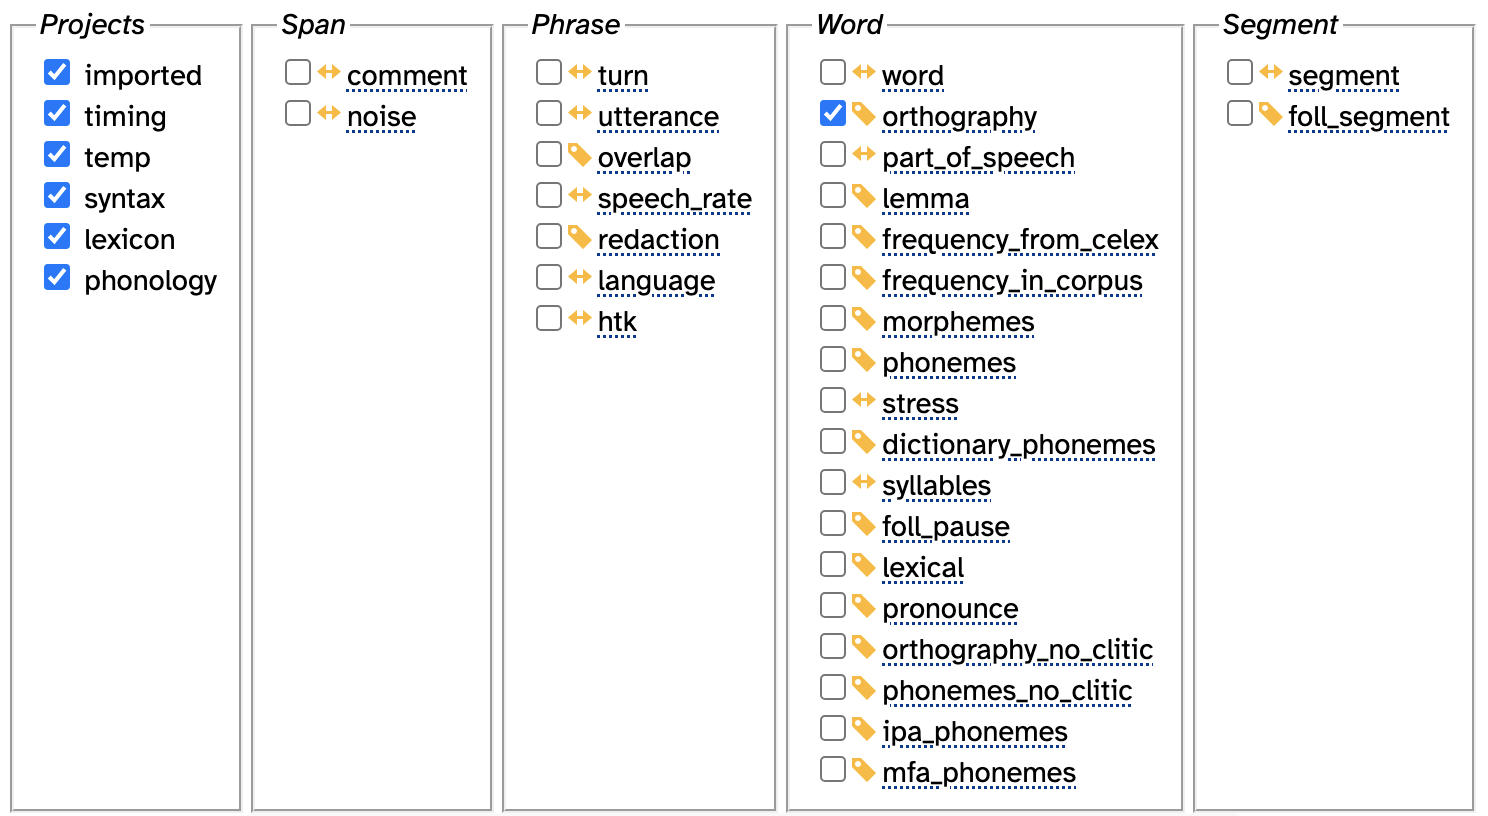
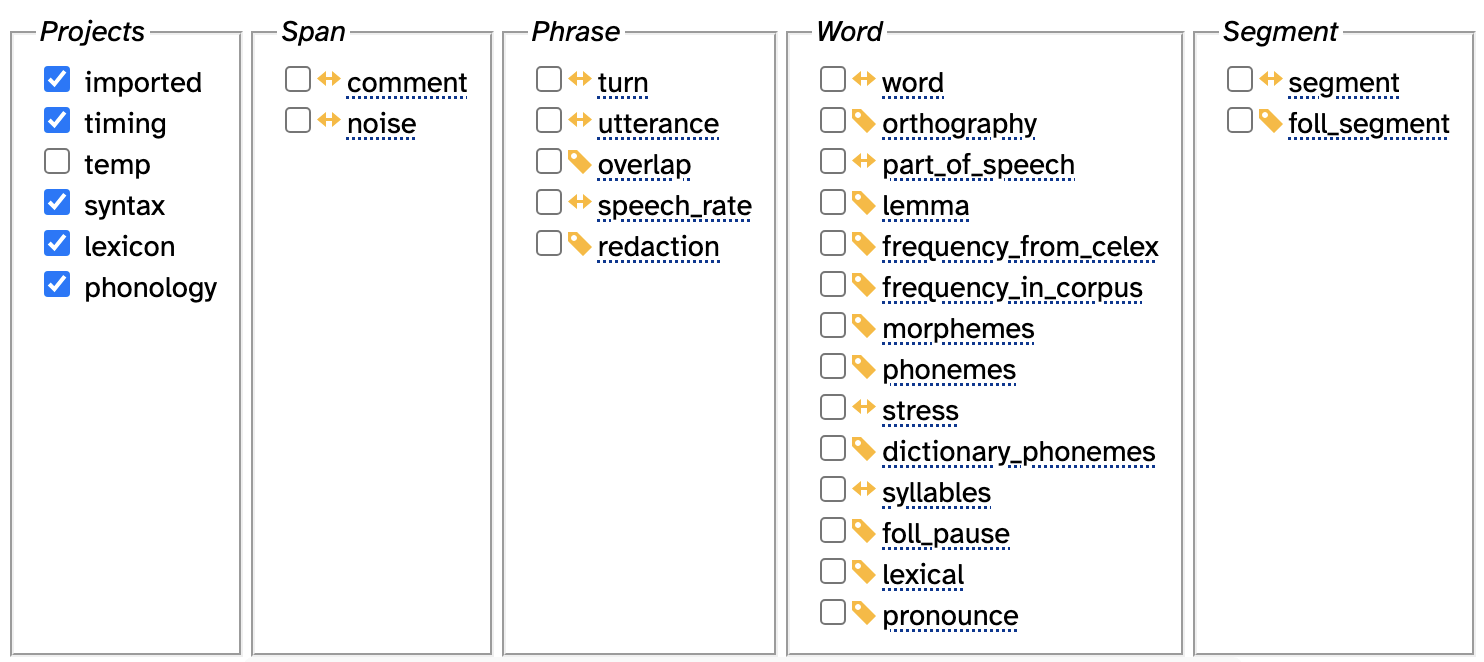
Editing wording and formatting, adding in a "what you can do" section, and adding more try its

Changed region(s): [[0.0, 0.0, 1.0, 0.997]]

diff --git a/doc/how-to-use/search.md b/doc/how-to-use/search.md
@@ -5,7 +5,7 @@ parent: How to use APLS
 has_children: yes
 has_toc: no
 nav_order: 50
-last_modified_date: 2025-03-22T13:14:19:z
+last_modified_date: 2025-03-22T14:43:23:z
 ---
 
 # {{ page.title }}
@@ -17,13 +17,24 @@ Once you create a search, you can [export the results]({{ '/doc/export-data' | r
 
 [^patterns]: The term "patterns" is used throughout this page because the search function is capable of matching exact words, affixes, individual sound segments, stress, part of speech, and much more!
 
+Because the _search_ page has many options that will be of interest to a variety of different researchers, this documentation page is more focused on giving users an understanding of the _search_ page capabilities through `TRY IT!` tutorials.
+If you would like to understand the data structure that the _search_ page relies on, read the [Layers and attributes]({{ '/doc/layers-and-attributes' | relative_url }}) and [Layer typology]({{ '/doc/layer-typology' | relative_url }}) documentation pages.
+
 If you are looking for information on the search results page, go to the [Exporting data]({{ '/doc/export-data' | relative_url }}) documentation.
 
 {% include page_toc.html collapsible=true %}
 
-## Anatomy of the _search_ page
+## What you can do on the _search_ page
 
-There are four main sections of the _search_ page, top to bottom:
+The _search_ page allows you to...
+- [Search APLS data for specific patterns](#layered-search-matrix).
+  - These patterns can target [single words](#pattern-input-fields), [segments within words](#within-word-searches), [multiple words](#making-searches-wider), [multiple words and layers](#searches-across-multiple-words-and-layers), and more.
+- [Filter searches by specific participants and transcripts](#participants-and-transcripts-filters).
+- Configure your search with different [match and display options](#match-and-display-options).
+
+### Layout
+
+There are four main sections of the _search_ page, from top to bottom:
 1. [Participants and transcripts filters](#participants-and-transcripts-filters)
 1. [Layered search matrix](#layered-search-matrix)
 1. [Match and display options](#match-and-display-options)
@@ -45,21 +56,19 @@ The participants filter is the first option displayed on the _search_ page.
 
 ![]({{ '/assets/screengrab/search/search-participants-filter.png' | relative_url }})
 
-There are two ways to select participants for this filter on the _search_ page.
+There are two ways to select participants for this filter on the _search_ page:
 
-Clicking _Participants_ will take you to the [_participants_ page]({{ '/doc/browse-participants' | relative_url }}).
-From this page, click the checkboxes for all participants you would like to include in your search and then click the _Layered Search_ button to return to the _search_ page.
-More information about the _participants_ page can be found on the [Browsing participants]({{ '/doc/browse-participants' | relative_url }}) documentation page.
-
-You can also upload a `.csv` file containing participant codes to the participants filter by clicking the _Choose File_ button.
+- Clicking _Participants_ will take you to the [_participants_ page]({{ '/doc/browse-participants' | relative_url }}).
+  From this page, click the checkboxes for all participants you would like to include in your search and then click the _Layered Search_ button to return to the _search_ page.
+  More information about the _participants_ page can be found on the [Browsing participants]({{ '/doc/browse-participants' | relative_url }}) documentation page.
+- You can also upload a `.csv` file containing participant codes to the participants filter by clicking the _Choose File_ button.
+  - For the `.csv` upload filter to work, participant codes must be in the first column of the `.csv`. 
+    The filter will select all __valid__ participant codes in the first column.
+    The column does not need to have a header name and the column can contain rows that aren't valid participant codes.
+    Additionally, the `.csv` upload option treats multiple rows of the same participant code as if they were a single row.
+    If there is an error in the column, it will be ignored (e.g., if the column contains `CB96` instead of `CB06`, the filter will simply ignore `CB96` because it is not a valid participant code).
 
 <!-- this option also works with .txt files (treated essentially like a csv with one column) -->
-
-For the `.csv` upload filter to work, participant codes must be in the first column of the `.csv`. 
-The filter will select all __valid__ participant codes in the first column.
-The column does not need to have a header name and the column can contain rows that aren't valid participant codes.
-If there is an error in the column, it will be ignored (e.g., if the column contains `CB96` instead of `CB06`, the filter will simply ignore `CB96` because it is not a valid participant code).
-Additionally, the `.csv` upload option treats multiple rows of the same participant code as if they were a single row.
 
 ### Transcripts filter
 
@@ -92,25 +101,28 @@ To make more [layers]({{ '/doc/layer-typology' | relative_url }}) appear, you ha
 {: .under-the-hood }
 > The <span class="layer">orthography</span>, <span class="layer">word</span>, and <span class="layer">segment</span> layers are displayed without selecting any projects because these layers are not associated with a project.
 
-The screengrab below has all projects toggled on to show all the layers available for searching.
+The screengrab below has all end-user projects toggled on to show all the layers that are useful for searching APLS.
 
 ![]({{ '/assets/screengrab/search/search-all-layers.png' | relative_url }})
+
+{:.note .no-collapse}
+> Layers in the `temp` project aren’t meaningful for end-users, so these layers are not discussed on this page.
 
 Hovering over the names of the layers will display a tooltip giving a brief description of that layer.
 For an overview of how layers work in APLS, start with the [Layers and attributes]({{ '/doc/layers-and-attributes' | relative_url }}) documentation section.
 In-depth descriptions of the different layers in APLS can be found in the [field guide]({{ '/doc/layer-field-guide' | relative_url }}).
 
-Selecting a layer in the layer selection menu will cause a pattern input field appear for that layer below the layer selection menu.
+Selecting a layer in the layer selection menu will make an input field for that layer appear in the pattern input fields section.
 
 {:.note}
-> Layers that are selected with the layer selection menu are only applied to the search if something is entered into their pattern input fields.
+> Layers that are selected with the layer selection menu are only applied to the search if input is entered into their pattern input fields.
 
 ### Pattern input fields
 
-The pattern input fields are where you specify the pattern you'd like to search for.
+The pattern input fields enable you to specify the pattern you'd like to search for.
 
 {:.note}
-> Layered search is by word, so the patterns you search will be matched against individual words instead of entire utterances. 
+> Pattern input fields look for matches in the corpus by invidual word, rather than entire utterances. 
 > For example, if you entered `not even` into the orthography input field, you would not get any results because "not even" will never match a single word in any transcript.
 > However, you can expand the size of your search to include multiple words, as explained in the [Making searches wider](#making-searches-wider) section.
 
@@ -118,27 +130,37 @@ We'll begin with the input field for the <span class="layer">orthography</span> 
 
 ![]({{ '/assets/screengrab/search/search-input-field-orthography.png' | relative_url }})
 
-At the top-left of the input field section, you'll see the name of the layer that input field will apply to.
+At the top-left of the input field section, you will see the name of the layer that input field will apply to.
+
+The text field that displays `Regular expression`  allows you to specify the pattern you would like to search that layer for.
+For an overview of using regular expressions with APLS, go to the [Regular expressions]({{ '/doc/regex' | relative_url }}) documentation page.
+
+{: .try-it }
+> To search for every instance of the word "pittsburgh" in APLS:
+> 1. Go to the [_search_ page](https://apls.pitt.edu/labbcat/search).
+> 1. Enter `pittsburgh` into the orthography input field.
+> 1. Click the _Search_ button.
 
 By default, the list of results will contain one match for each __word token__ that matches your search. 
-For certain layers, a target icon (![]({{ '/assets/img/target.svg' | relative_url }}){: style="height:1rem;"}) will appear next to the layer name or the _matches_ drop-down menu.
+For certain layers, a target icon (![]({{ '/assets/img/target.svg' | relative_url }}){: style="height:1rem;"}) will appear in the pattern input field.
 Clicking this icon will cause that layer to be the "target" layer, which will cause the results to contain one row for each match on the target layer.
 In other words, the target icon (![]({{ '/assets/img/target.svg' | relative_url }}){: style="height:1rem;"}) determines what the "token of interest" is for your search.
 
 {: .try-it }
+> To generate search results with matches for both /i/ vowels in the word "really", so that every instance of "really" appears twice:
 > 1. Go to the [_search_ page](https://apls.pitt.edu/labbcat/search).
 > 1. Click the checkbox for the <span class="layer">segment</span> layer to make the segment input field appear.
 > 1. Enter `really` into the orthography input field and `i` into the segment input field.
 > 1. Click the target icon (![]({{ '/assets/img/target.svg' | relative_url }}){: style="height:1rem;"}) next to the _matches_ drop-down menu for the segment input field.
 > 1. Click the _Search_ button.
-> This will generate search results with matches for both /i/ vowels in the word "really", so that every instance of "really" appears twice.
-> If you conduct the same search with the __orthography layer__ as the target layer, you will get half the number of results because the search is only matching each instance of the word "really" once.
+>
+> If you conduct this same search with the __orthography layer__ as the target layer, you will get half the number of results because the search is only matching each instance of the word "really" once.
 
 The _matches_ drop-down menu is located below the layer name of the input field.
-This drop-down menu lets you select whether the search will identify annotations that match your input expression or annotations that don't match your input expression.
+This drop-down menu lets you select whether the search will identify annotations that match your input pattern or annotations that don't match your input pattern.
 
 {: .try-it }
-> If you wanted to find all matches for the segment /u/ that don't have primary stress, you could do this with the following steps:
+> To find all matches for the segment /u/ that don't have primary stress:
 > 1. Go to the [_search_ page](https://apls.pitt.edu/labbcat/search).
 > 1. Click the checkbox for the <span class="layer">segment</span> layer to make the segment input field appear.
 > 1. Enter `u` into the segment input field.
@@ -147,28 +169,23 @@ This drop-down menu lets you select whether the search will identify annotations
 > 1. Click the _matches_ drop-down menu for the stress input field and select _doesn't match_.
 > 1. Click the _Search_ button.
 
-The text field next to the _matches_ drop-down menu allows you to specify the pattern you would like to search that layer for.
-The text fields support the use of regular expressions, which are described in more detail on the [Regular expressions]({{ '/doc/regex' | relative_url }}) documentation page.
-
-{:.note}
-> If you are conducting searches on the basis of word spelling, it is recommended to use the <span class="layer">orthography</span> layer instead of the <span class="layer">word</span> layer. 
-> The <span class="layer">word</span> layer contains words exactly as they were typed in the transcript, including capitalization and all punctuation. 
-> The <span class="layer">orthography</span> layer contains the words converted to all lowercase with word-external punctuation removed.
-
 #### Layers with input fields similar to the orthography layer
 
 The following layers have pattern input fields that work similarly to the <span class="layer">orthography</span> layer:
-- <span class="layer">word</span> 
 - <span class="layer">lemma</span> 
 - <span class="layer">morphemes</span> 
 - <span class="layer">lexical</span> 
+- <span class="layer">word</span> 
+  - If you are conducting searches on the basis of word spelling, it is recommended to use the <span class="layer">orthography</span> layer instead of the <span class="layer">word</span> layer. 
+    The <span class="layer">word</span> layer contains words exactly as they were typed in the transcript, including capitalization and all punctuation. 
+    The <span class="layer">orthography</span> layer contains the words converted to all lowercase with word-external punctuation removed.
 - <span class="layer">redaction</span>  
-
-{:.note}
-> The <span class="layer">redaction</span> search targets the comments that are made for redactions on the word layer.
-> All redactions are annotated as `___` on the word layer, which is what appears on the search results page for redactions.
-> However, the pattern for <span class="layer">redaction</span> must match the comments in the <span class="layer">redaction</span> layer.
-> Therefore, searching for `___` on the <span class="layer">redaction</span> layer won't display any results but searching `.*name.*` will show all redactions that contain "name" in the comment.
+  
+  {:.note}
+  > The <span class="layer">redaction</span> search targets the comments that are made for redactions on the word layer.
+  > All redactions are annotated as `___` on the word layer, which is what appears on the search results page for redactions.
+  > However, the pattern for <span class="layer">redaction</span> must match the comments in the <span class="layer">redaction</span> layer.
+  > Therefore, searching for `___` on the <span class="layer">redaction</span> layer won't display any results but searching `.*name.*` will show all redactions that contain "name" in the comment.
 
 #### Layers with drop-down selection input fields
 
@@ -198,28 +215,37 @@ The following layers use numeric range input fields:
 - <span class="layer">speech_rate</span> 
 - <span class="layer">foll_pause</span> 
 
-#### Layers with anchors
+{: .try-it }
+> To find every word that only appears in the corpus one to two times:
+> 1. Go to the [_search_ page](https://apls.pitt.edu/labbcat/search).
+> 1. Select the `lexicon` project in the layer selection menu and click the checkbox for the <span class="layer">frequency_in_corpus</span> layer to make the frequency_in_corpus input field appear.
+> 1. Enter `1` in the frequency_in_corpus _Minimum_ input field and enter `2` in the frequency_in_corpus _Maximum_ input field.
+> 1. Click the _Search_ button.
+> - This search will include incomplete words as well.
+>   To exclude incomplete words, select _doesn't match_ from the _matches_ drop-down menu and enter `.+~` into the orthography input field.
+
+### Anchoring searches
 
 Some layers contain annotations that can span multiple words or can include multiple annotations per word.
-These layers allow you to "anchor" your search pattern to match the beginning or the end of the matching word using the lock icons.
+These layers allow you to "anchor" your search pattern to match the beginning or the end of that layer's [scope]({{ '/doc/layer-typology#scope' | relative_url }}) using the lock icons.
 
-The following layers have pattern input fields that work similarly to the <span class="layer">orthography</span> layer, with the addition of anchoring options.
-- <span class="layer">comment</span>
-- <span class="layer">noise</span>
-
-The following layers have anchoring as their _only_ search parameter:
+The following [phrase layers]({{ '/doc/layer-typology#scope' | relative_url }}) layers have anchoring as their _only_ search parameter:
 - <span class="layer">turn</span>
 - <span class="layer">utterance</span>
 
 {: .try-it }
+> To search for the word "yes" occurring at the beginning of speaker turns.
 > 1. Go to the [_search_ page](https://apls.pitt.edu/labbcat/search).
 > 1. Select the `timing` project in the layer selection menu and click the checkbox for the <span class="layer">turn</span> layer to make the turn input field appear.
 > 1. Click the lock icon on the left side of the turn input field.
 > 1. Enter `yes` into the orthography input field.
 > 1. Click the _Search_ button.
-> This search will give you all the results for the word "yes" that occur at the beginning of speaker turns.
 
-In addition to their functionalities described in previous sections, the following layers also support anchoring:
+The following [span layers]({{ '/doc/layer-typology#scope' | relative_url }}) have pattern input fields that are like the <span class="layer">orthography</span> layer, with the addition of anchoring options:
+- <span class="layer">comment</span>
+- <span class="layer">noise</span>
+
+The following [segment layers]({{ '/doc/layer-typology#scope' | relative_url }}) also support anchoring to beginning or end of words:
 - <span class="layer">segment</span>
 - <span class="layer">foll_segment</span>
 
@@ -235,15 +261,17 @@ You can make your pattern as wide as you need to conduct your search, and every 
 Clicking the `-` button makes your search narrower by removing a word from your search pattern.
 
 {: .try-it }
+> To search for every instance of the word "not" immediately followed by the word "even":
 > 1. Go to the [_search_ page](https://apls.pitt.edu/labbcat/search).
 > 1. Click the `+` button to make your search pattern one word wider.
 > 1. Enter `not` in the first orthography layer text field and enter `even` in the second orthography layer text field.
 > 1. Click the _Search_ button.
-> This will generate search results with matches for every instance of the word "not" immediately followed by the word "even".
 
 ### Within-word searches
 
-There are two layers that support searching for patterns within words: the <span class="layer">segment</span> and <span class="layer">foll_segment</span> layers.
+There are two layers that support searching for patterns within words: 
+- <span class="layer">segment</span> 
+- <span class="layer">foll_segment</span>
 
 {:.note}
 > It is strongly recommended to not attempt within-word searches for <span class="layer">segment</span> and <span class="layer">foll_segment</span> at the same time.
@@ -252,21 +280,21 @@ There are two layers that support searching for patterns within words: the <span
 Similar to [making searches wider](#making-searches-wider), clicking the `+` button on the right side of the segment input field adds another input field for the segment that immediately follows the previous segment.
 
 {: .try-it }
+> To find matches for every instance of /s/ followed by /t/ that occurs at the end of words:
 > 1. Go to the [_search_ page](https://apls.pitt.edu/labbcat/search).
 > 1. Select the <span class="layer">segment</span> layer in the selection menu to make the segment pattern input field appear.
 > 1. Click the `+` button inside of the segment box to make another segment input field appear.
 > 1. Enter `s` in the first segment field and `t` in the second segment field.
 > 1. Click the lock on the right side of the segment input field.
 > 1. Click the _Search_ button.
-> This will generate search results with matches for every instance of /s/ followed by /t/ that occurs at the end of words.
 
 ### Searches across multiple words and multiple layers
 
 Because the _search_ page uses a matrix of expressions to find search matches, searches can be simple (one word wide and one layer deep) or complex (multiple words wide and multiple layers deep).
 This allows the search function to find very specific matches based on multiple different criteria.
-An example of a more complex search, finding all verbs that begin with a consonant which follow the word "the", is explained in the `TRY IT!` below.
 
 {: .try-it }
+> To find matches for every consonant-initial verb that is preceded by the word "the":
 > 1. Go to the [_search_ page](https://apls.pitt.edu/labbcat/search).
 > 1. Select the `syntax` project in the layer selection menu to make the <span class="layer">part_of_speech</span> layer appear in the selection menu.
 > 1. Select the <span class="layer">part_of_speech</span> layer in the selection menu to make the part_of_speech pattern input field appear.
@@ -277,7 +305,6 @@ An example of a more complex search, finding all verbs that begin with a consona
 > 1. Click the lock button on the left side of the second segment input field to specify that you only want to match words that begin with a consonant segment.
 > 1. Click the target icon (![]({{ '/assets/img/target.svg' | relative_url }}){: style="height:1rem;"}) for the second part_of_speech input field to select the second word as the target of your search (as opposed to targeting "the").
 > 1. Click the _Search_ button.
-> This will generate search results with matches for every consonant-initial verb that is preceded by the word "the".
 
 ## Search match options
 
